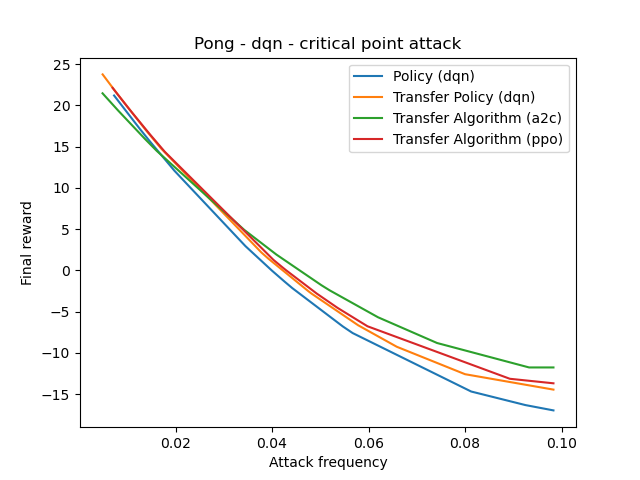
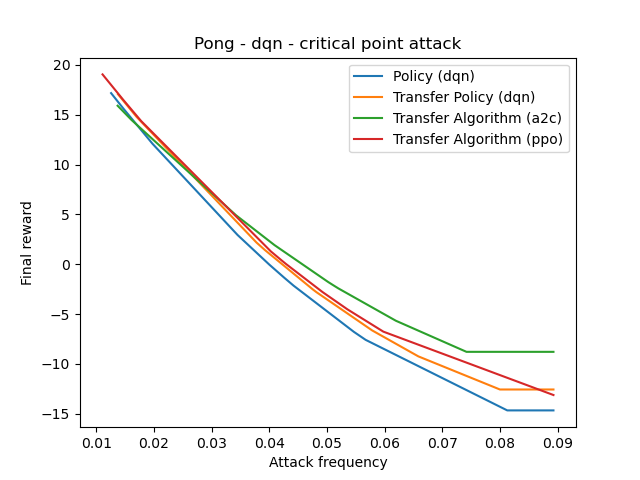
cleaned the code

diff --git a/benchmark/make_chart_rew_attack.py b/benchmark/make_chart_rew_attack.py
@@ -33,19 +33,19 @@ def limit_lists(limit_freq, x_lists, y_lists):
 if __name__ == '__main__':
 
     # Data
-    task = "Breakout"  # Pong
-    model = "ppo"
+    task = "Pong"  # Pong
+    model = "dqn"
     n_lines = 4
-    transfer_model = "ppo"
-    transfer_model_2 = "dqn"
-    transfer_model_3 = "a2c"
-    img_attack = "fgm_eps_0.03"  # fgm_eps_0.05, perfect_attack, fgm_eps_0.3
-    rl_attack = "critical_strategy_attack"  # strategically_timed_attack, uniform_attack, critical_strategy_attack, critical_point_attack, adversarial_policy_attack
+    transfer_model = "dqn"
+    transfer_model_2 = "a2c"
+    transfer_model_3 = "ppo"
+    img_attack = "fgm_eps_0.1"  # fgm_eps_0.05, perfect_attack, fgm_eps_0.3
+    rl_attack = "critical_point_attack"  # strategically_timed_attack, uniform_attack, critical_strategy_attack, critical_point_attack, adversarial_policy_attack
     has_atk_freq = 1
     has_n_attacks = 0
     smoothing = 2
-    limit_freq = 0.15
-    min_freq = 0.0
+    limit_freq = 0.09
+    min_freq = 0.01
     first_equal = False  # make first reward same as first line for all lines
     input_file = [
         "log/" + task + "NoFrameskip-v4/" + model + "/" + rl_attack + "_" + img_attack + ".npy",

diff --git a/utils.py b/utils.py
@@ -1,6 +1,6 @@
 import torch.nn as nn
 import torch
-from net.discrete_net import DQN, ConvNet, Actor, Critic
+from net.discrete_net import DQN
 from tianshou.policy import DQNPolicy, A2CPolicy
 from advertorch.attacks import *
 from atari_wrapper import wrap_deepmind
@@ -91,7 +91,7 @@ def make_img_adv_attack(args, adv_net, min_pixel=0., max_pixel=255., targeted=Fa
     # https://advertorch.readthedocs.io/en/latest/advertorch/attacks.html
     """
     eps, clip_min, clip_max, targeted, nb_iter, eps_iter are shared among most of the attacks
-    so they can be defined in 'args' or direclty passed to this function.
+    so they can be defined in 'args' or directly passed to this function.
     Other params specific for each method can be manually defined here.
     """
     obs_adv_atk, atk_type = None, None
@@ -139,6 +139,7 @@ def make_img_adv_attack(args, adv_net, min_pixel=0., max_pixel=255., targeted=Fa
 
 
 def make_victim_network(args, policy):
+    """Given a policy, return a copy of its network adapted to Advertorch interface"""
     if 'dqn' in args.policy:
         args.policy = 'dqn'
     if 'a2c' in args.policy:
